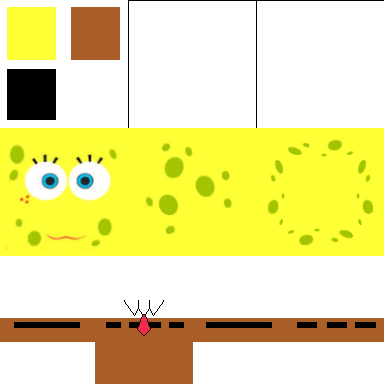
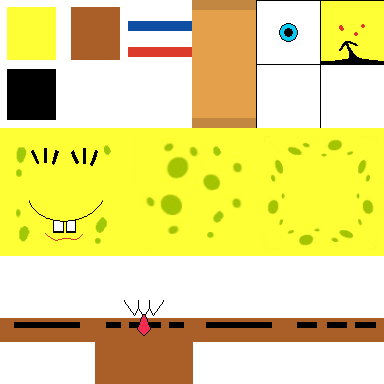
Finishing Spongebob

diff --git a/Project/object/character/spongebob.js b/Project/object/character/spongebob.js
@@ -2,14 +2,31 @@ import {TexturedObject} from "../object.js";
 export {Spongebob}
 
 class Spongebob extends TexturedObject{
-    time = 0;
-    negate = false;
+    texture = null;
     l_arm = null;
     r_arm = null;
     l_thigh = null;
     r_thigh = null;
-    constructor(shader_program) {
+    jelly_net = null;
+    constructor(shader_program, texture) {
         super([], [], shader_program);
+        this.texture = texture;
+
+        var curve = CURVE.createVase(
+            [
+                [0,1,0],
+                [1,1,1],
+                [1,0,1],
+                [0.5,-1,0.5],
+            ],40, 36,this.vertex.length/5,
+            {vT: true, t_s:[1/12,11/12],t_e:[1/12,11/12]},
+            [0,1,6.5],
+            [1.25,1.25,5],
+            [0,2,1]
+        );
+        this.faces.push(...curve.faces);
+        this.vertex.push(...curve.vertex);
+
         this.faces.push(...QUADRIC.ellipsoid.createFaces(this.vertex.length/5));
         this.vertex.push(...QUADRIC.ellipsoid.createVertex(
             {vT: true},
@@ -31,24 +48,50 @@ class Spongebob extends TexturedObject{
             [9,3,3.5])
         );
 
-        // this.faces.push(...QUADRIC.ellipsoid.createFaces(this.vertex.length/5));
-        // this.vertex.push(...QUADRIC.ellipsoid.createVertex(
-        //     {vT: true},
-        //     [-3.2,3.9,4],
-        //     [3.1,3.1,3])
-        // );
-        //
-        // this.faces.push(...QUADRIC.ellipsoid.createFaces(this.vertex.length/5));
-        // this.vertex.push(...QUADRIC.ellipsoid.createVertex(
-        //     {vT: true},
-        //     [3.3,3.9,4],
-        //     [3.1,3.1,3])
-        // );
+        this.faces.push(...QUADRIC.ellipsoid.createFaces(this.vertex.length/5));
+        this.vertex.push(...QUADRIC.ellipsoid.createVertex(
+            {vT: true, t_s:[2/3, 5/6]},
+            [-3.3,4,4],
+            [3.3,3.6,1],
+            [],
+            [-Math.PI/2,0]
+            )
+        );
+
+        this.faces.push(...QUADRIC.ellipsoid.createFaces(this.vertex.length/5));
+        this.vertex.push(...QUADRIC.ellipsoid.createVertex(
+            {vT: true, t_s:[2/3, 5/6]},
+            [3.5,3.9,4],
+            [3.4,3.5,1],
+            [],
+            [-Math.PI/2,0]
+            )
+        );
+
+        this.faces.push(...QUADRIC.ellipsoid.createFaces(this.vertex.length/5));
+        this.vertex.push(...QUADRIC.ellipsoid.createVertex(
+                {vT: true, t_s:[2/3, 5/6]},
+                [-6,1.5,4],
+                [2,1.5,1.5],
+                [],
+                [Math.PI/2,0]
+            )
+        );
+        this.faces.push(...QUADRIC.ellipsoid.createFaces(this.vertex.length/5));
+        this.vertex.push(...QUADRIC.ellipsoid.createVertex(
+                {vT: true, t_s:[1,5/6], t_e:[2/3, 1]},
+                [6.35,1.3,4],
+                [2.3,1.5,1.5],
+                [],
+                [-Math.PI/2,0]
+            )
+        );
 
         this.l_arm = new Spongebob_u_arm(shader_program);
         this.r_arm = new Spongebob_u_arm(shader_program);
         this.l_thigh = new Spongebob_thigh(shader_program);
         this.r_thigh = new Spongebob_thigh(shader_program);
+        this.jelly_net = new Jellyfish_Net(shader_program)
 
         this.childs = [
             this.l_arm,
@@ -57,32 +100,81 @@ class Spongebob extends TexturedObject{
             this.r_thigh,
         ];
 
-        LIBS.translate(this.l_arm.LOCAL_MATRIX,-9.8,-5,0);
-        LIBS.translate(this.r_arm.LOCAL_MATRIX,9.8,-5,0);
-        LIBS.rotateZ(this.l_arm.LOCAL_MATRIX,-Math.PI/2);
-        LIBS.rotateZ(this.r_arm.LOCAL_MATRIX,Math.PI/2);
+        this.r_arm.l_arm.hand.childs.push(this.jelly_net);
+        LIBS.translate(this.jelly_net.LOCAL_MATRIX,0.8,-1,0);
+        LIBS.rotate(this.jelly_net.LOCAL_MATRIX,0,-0.1,-Math.PI/2);
 
-        LIBS.translate(this.l_thigh.LOCAL_MATRIX,-4.75,-12,0);
-        LIBS.translate(this.r_thigh.LOCAL_MATRIX,4.75,-12,0);
+        LIBS.translate(this.r_arm.LOCAL_MATRIX,-9.8,-5,0);
+        LIBS.translate(this.l_arm.LOCAL_MATRIX,9.8,-5,0);
+        LIBS.rotateZ(this.r_arm.LOCAL_MATRIX,-Math.PI/2);
+        LIBS.rotateZ(this.l_arm.LOCAL_MATRIX,Math.PI/2);
 
-        LIBS.translate(this.LOCAL_MATRIX,0,5,0);
+        LIBS.translate(this.r_thigh.LOCAL_MATRIX,-4.75,-12,0);
+        LIBS.translate(this.l_thigh.LOCAL_MATRIX,4.75,-12,0);
+
+        LIBS.translate(this.LOCAL_MATRIX,0,2.5,0);
         LIBS.translate(this.WORLD_MATRIX,0,20,0);
     }
 
-    rotate(dt){
-        if (this.time > 200) this.negate = true;
-        else if (this.time < -200) this.negate = false;
-        this.negate ? this.time -= dt : this.time += dt;
-        var translate, scale;
-        this.negate ? translate = -1 : translate = 1;
-        this.negate ? scale = 100/99 : scale = 99/100;
-        var arr = [LIBS.get_MScale(scale,scale,scale), LIBS.get_MTranslate(0,translate,0)];
-        this.animate(arr);
+    setup() {
+        super.setup();
+        var f_rotate = LIBS.get_MRotate(0,0,0.9);
+        this.animate([
+            null,
+            LIBS.get_MRotate(0,0.3,-1.2),
+            LIBS.get_MRotate(-1,-0.3,0), null,
+            null, null, null,
+            null, null, null,
+            null, null, null,
+            null, null, null,
+            LIBS.get_MRotate(0,-Math.PI/4,0),
+            LIBS.get_MRotate(-1,-Math.PI/4,1), LIBS.get_MRotate(0.25,0.5,-0.5),
+            f_rotate, f_rotate, f_rotate,
+            f_rotate, f_rotate, f_rotate,
+            f_rotate, f_rotate, f_rotate,
+            f_rotate, f_rotate, f_rotate,
+            null,
+        ]);
+    }
+
+    negate = false;
+    rot_angle = 0;
+    angle = Math.PI/2;
+    speed = 3;
+
+    run(dt){
+        var mov_a = Math. floor(Math. random()*2) - 2;
+        if (Math.abs(this.rot_angle)>= Math.PI/2) this.negate = !this.negate;
+        var rotate = Math.PI/2 * dt/1000 * (this.negate ? -1:1) * this.speed;
+        this.rot_angle += rotate;
+        var mov = Math.abs(rotate/20) * mov_a;
+        this.angle += mov;
+        LIBS.translate(this.WORLD_MATRIX, -Math.cos(this.angle) * 0.5,0, Math.sin(this.angle) * 0.5);
+        this.animate([
+            LIBS.get_MRotate(0, mov + rotate/10,0),
+            LIBS.get_MRotate(rotate,0,0),
+            null, null,
+            null, null, null,
+            null, null, null,
+            null, null, null,
+            null, null, null,
+            LIBS.get_MRotate(0,0,rotate/3),
+            null, null, null,
+            null, null, null,
+            null, null, null,
+            null, null, null,
+            null, null, null,
+
+            LIBS.get_MRotate(-rotate/2,0,0),
+            null, null,
+            LIBS.get_MRotate(rotate/2,0,0),
+            null, null,
+        ]);
     }
 
     render(VIEW_MATRIX, PROJECTION_MATRIX, dt){
-        GL.bindTexture(GL.TEXTURE_2D, Texture[2]);
-        this.rotate(dt);
+        GL.bindTexture(GL.TEXTURE_2D, Texture[this.texture]);
+        this.run(dt);
         super.render(VIEW_MATRIX, PROJECTION_MATRIX);
     }
 }
@@ -278,9 +370,9 @@ class Spongebob_thigh extends TexturedObject{
         super([], [], shader_program);
         this.faces.push(...QUADRIC.ellipsoid.createFaces(this.vertex.length/5));
         this.vertex.push(...QUADRIC.ellipsoid.createVertex(
-            {vT: true},
-            [],
-            [0.1,0.1,0.1])
+            {vT: true, t_s:[3/12,11/12], t_e:[3/12,11/12]},
+            [0,1.5,0],
+            [1.7,2,2])
         );
         this.faces.push(...QUADRIC.cylinder.createFaces(this.vertex.length/5));
         this.vertex.push(...QUADRIC.cylinder.createVertex(
@@ -317,7 +409,7 @@ class Spongebob_leg extends TexturedObject{
         );
         this.faces.push(...QUADRIC.cylinder.createFaces(this.vertex.length/5));
         this.vertex.push(...QUADRIC.cylinder.createVertex(
-            {vT: true, t_s:[1/12,11/12], t_e:[1/12,11/12]},
+            {vT: true, t_s:[0.34,0.67], t_e:[0.49, 1]},
             [0,-2.4,0],
             [0.6,2.4,0.6])
         );
@@ -375,5 +467,85 @@ class Spongebob_shoe extends TexturedObject{
             [0,-0.5,0],
             [0.8,0.8,0.8]
         ));
+    }
+}
+
+class Jellyfish_Net extends TexturedObject{
+    constructor(shader_program) {
+        super([], [], shader_program);
+
+        var control = [
+            [
+                [-15,10,0],
+                [-5,-10,0],
+                [5,-10,0],
+                [15,10,0]
+            ],
+            [
+                [-10,10,-10],
+                [-5,-10,-5],
+                [5,-10,5],
+                [10,10,10]
+            ],
+            [
+                [-10,10,10],
+                [-5,-10,5],
+                [5,-10,-5],
+                [10,10,-10]
+            ],
+            [
+                [0,10,-15],
+                [0,-10,-5],
+                [0,-10,5],
+                [0,10,15]
+            ]
+        ];
+
+        var curve;
+
+        for (let i = 0; i < 4; i++) {
+            curve = CURVE.createCurvedCylinder(
+                [
+                    ...control[i]
+                ],25, 10,this.vertex.length/5,
+                {vT: true, t_s:[2/12,9/12], t_e:[2/12,9/12]},
+                [0,-3,10],
+                [0.2,0.3,0.2],
+                []
+            );
+            this.faces.push(...curve.faces);
+            this.vertex.push(...curve.vertex);
+
+            this.faces.push(...QUADRIC.donut.createFaces(this.vertex.length/5));
+            this.vertex.push(...QUADRIC.donut.createVertex(
+                {vT: true, t_s:[2/12,9/12], t_e:[2/12,9/12]},
+                [0,-4+0.6+i*0.85,10],
+                [0.45*(i+3),0.45*(i+3),0.45*(i+3)],
+                [],
+                [],
+                0.3 / (i+3)
+                )
+            );
+
+            this.faces.push(...QUADRIC.cylinder.createFaces(this.vertex.length/5));
+            this.vertex.push(...QUADRIC.cylinder.createVertex(
+                    {vT: true, t_s:[0.51,0.67], t_e:[0.66,1]},
+                    [0,0,5.8-i*3],
+                    [0.3,0.3,1.5],
+                    [0,2,1]
+                )
+            );
+        }
+
+        this.faces.push(...QUADRIC.donut.createFaces(this.vertex.length/5));
+        this.vertex.push(...QUADRIC.donut.createVertex(
+                {vT: true, t_s:[7/12,10/12], t_e:[7/12,10/12]},
+                [0,0,10],
+                [2.9,2.9,2.9],
+                [],
+                [],
+                0.125
+            )
+        );
     }
 }
